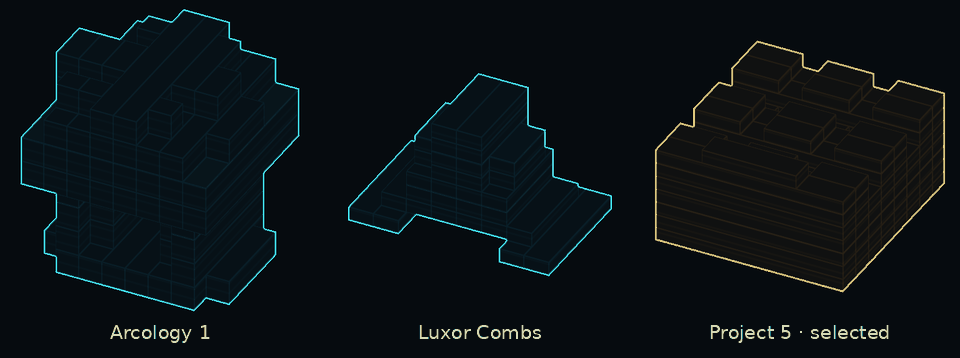
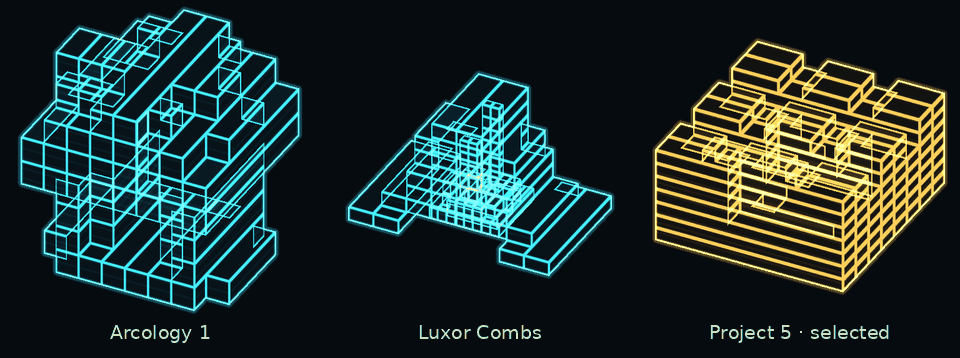
Restore bright hologram internals beneath the whole-building outline and glow
Draw the original additive wireframe and scanlines over scene depth, then layer the combined building contour and depth-aware halo over it. Reuse the cached geometry and identity/depth targets.

diff --git a/docs/house-icon-holograms.md b/docs/house-icon-holograms.md
@@ -15,17 +15,21 @@ Recoil builds without private player rules parameters use cyan silhouettes.
 
 Each complete building has one screen-space identity mask. A bright cyan rim
 follows the visible contour of the combined building, including openings.
-Overlapping pieces and internal voxel boundaries have only faint grid detail.
+The original bright translucent wireframe and animated scanlines remain fully
+visible inside it, including overlapping piece edges. The contour and a broader
+soft glow are added over that material without dimming its internals.
 Adjacent buildings keep separate identities and outlines. Border widths are
 measured in screen pixels; a selected host gets a wider amber rim.
 
-The renderer draws the cached geometry once into a shared viewport-sized mask
-and composites it in one additional screen pass. A private copy of scene depth
+The renderer draws the same cached geometry into a shared viewport-sized mask
+and again as the original additive hologram, then adds the contour/glow in one
+screen pass. A private copy of scene depth
 resolves occlusion between pieces, houses and foreground terrain/units without
-changing the main depth buffer. Glow extends inward, so it cannot spill onto
-foreground objects. The RGBA8 mask and 24-bit depth target are reused until
+changing the main depth buffer. The glow extends inside and outside the outline;
+outer halo samples are depth-checked against foreground objects. The RGBA8 mask
+and 24-bit depth target are reused until
 the viewport changes. If framebuffer allocation fails, regular icons remain.
-The extra screen pass and depth copy have not been profiled in-game.
+The second geometry draw, screen pass and depth copy have not been profiled in-game.
 
 Procedural Arab, Asian and Western houses reuse the assembled building's
 shadow columns, including floor masks, terrain offsets, courtyards and updates
